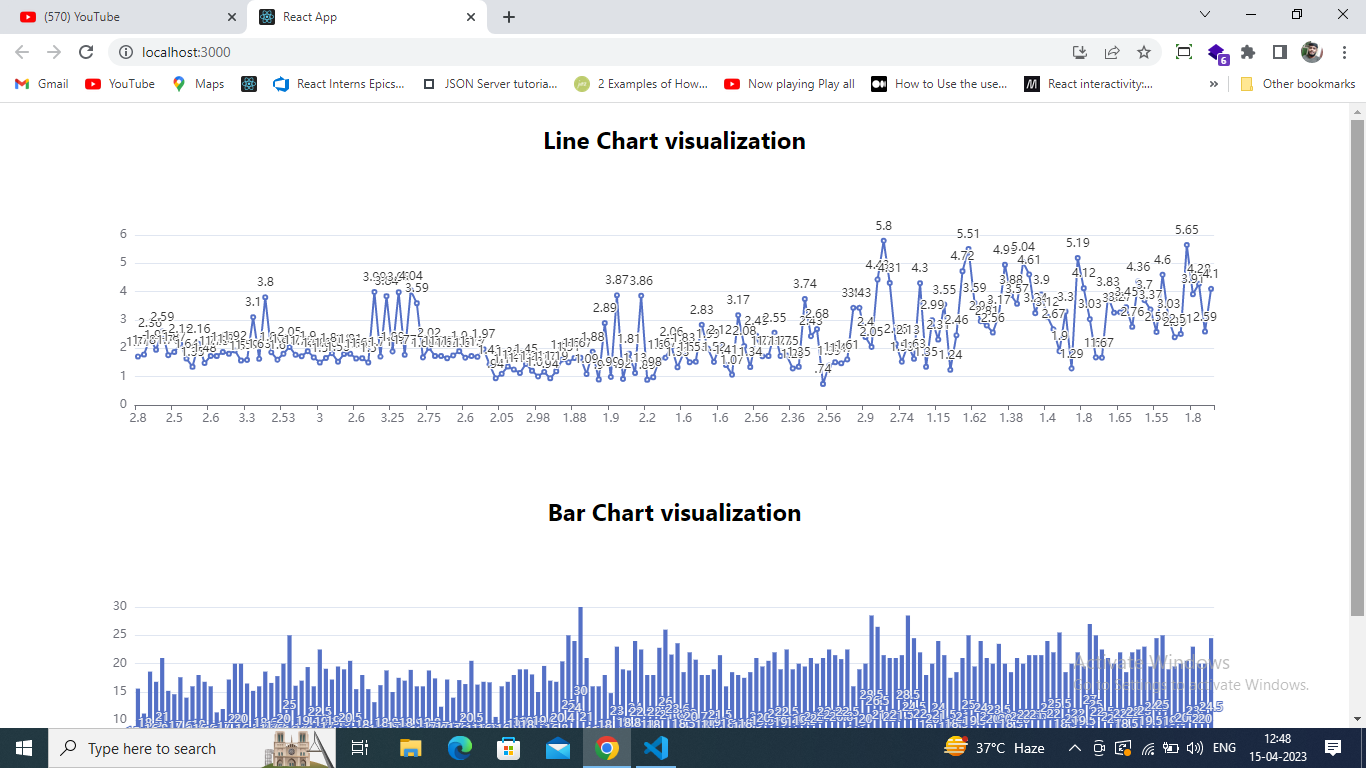
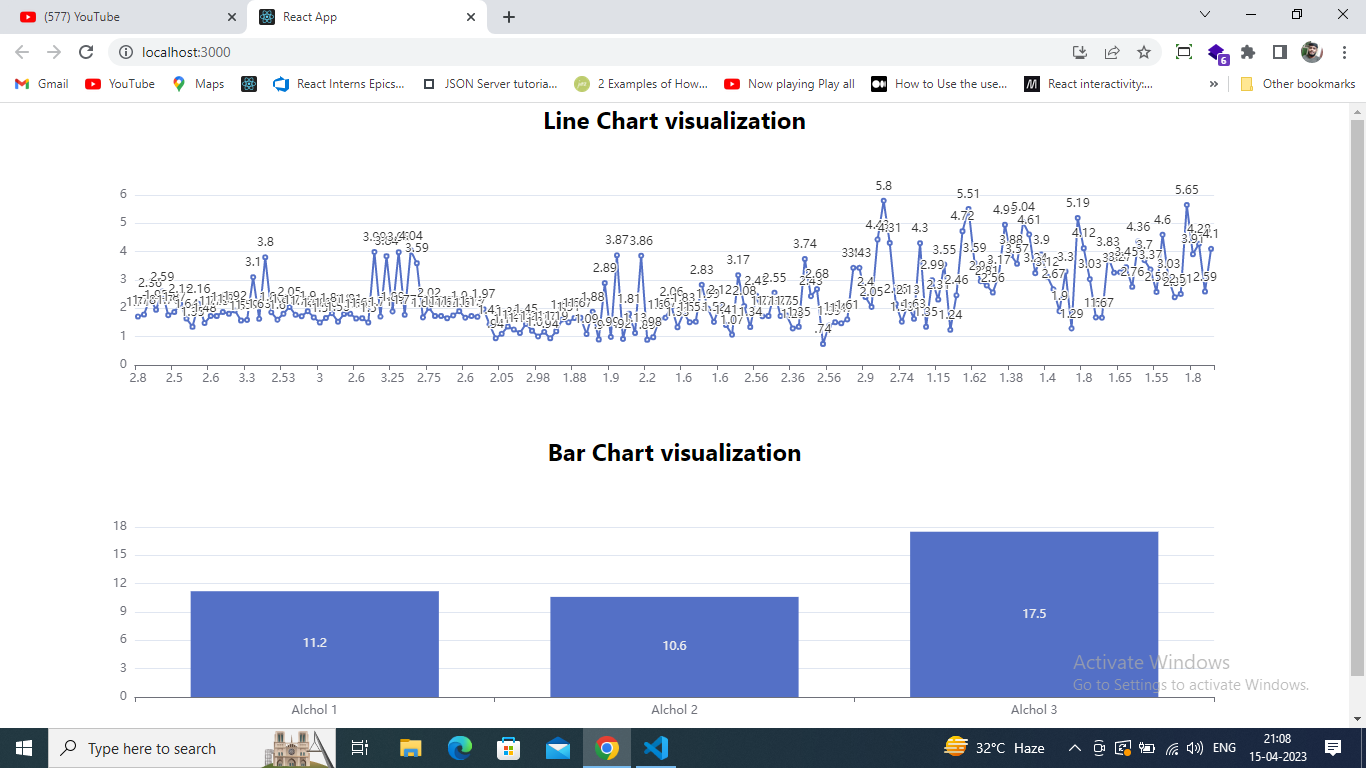
bar chart changes

diff --git a/src/components/BarChart/BarChart.tsx b/src/components/BarChart/BarChart.tsx
@@ -6,17 +6,51 @@ import { EchartOptions } from '../../interfaces/chartOptions';
 
 const BarChart = () => {
 
+  const AlcholFisrtData = WineData.filter((value : any, index : number) => value.Alcohol === 1);
+
+  const AlcholSecondData = WineData.filter((value : IWineData, index : number) => value.Alcohol === 2);
+
+  const AlcholThirdData = WineData.filter((value : IWineData, index : number) => value.Alcohol === 3);
+
+  // Finding Alchol1 Minimum Magnesium Value
+
+  const closest = AlcholFisrtData.reduce(
+    (acc : IWineData, loc : IWineData) =>
+      acc.Magnesium < loc.Magnesium
+        ? acc
+        : loc
+  );
+
+  // Finding Alchol2 Minimum Magnesium Value
+
+  const closestFirst = AlcholSecondData.reduce(
+    (acc : IWineData, loc : IWineData) =>
+      acc.Magnesium < loc.Magnesium
+        ? acc
+        : loc
+  );
+
+  // Finding Alchol3 Minimum Magnesium Value
+
+  const closestSecond = AlcholThirdData.reduce(
+    (acc : IWineData, loc : IWineData) =>
+      acc.Magnesium < loc.Magnesium
+        ? acc
+        : loc
+  );
+  
+
     const option : EchartOptions = {
         xAxis: {
           type: 'category',
-          data: WineData.map((value : IWineData, index : number) => value.Alcohol)
+          data: ["Alchol 1", "Alchol 2", "Alchol 3"]
         },
         yAxis: {
           type: 'value'
         },
         series: [
           {
-            data: WineData.map((value : IWineData, index : number) => value.Magnesium),
+            data: [closest.Magnesium, closestFirst.Magnesium, closestSecond.Magnesium],
             type: 'bar',
             label : {
                 show : true

diff --git a/src/index.css b/src/index.css
@@ -11,3 +11,8 @@ code {
   font-family: source-code-pro, Menlo, Monaco, Consolas, 'Courier New',
     monospace;
 }
+
+h1, h2, h3, h4, h5, h6{
+  margin : 0;
+  padding : 0;
+}

diff --git a/README.md b/README.md
@@ -50,9 +50,3 @@ To learn React, check out the [React documentation](https://reactjs.org/).
 <div align="center">
 <img src="./src/assets/chartimage.png" width="100%"></img>
 <div>
-
-## Charts Without Label Screenshots
-
-<div align="center">
-<img src="./src/assets/newchartimage.png" width="100%"></img>
-</div>
